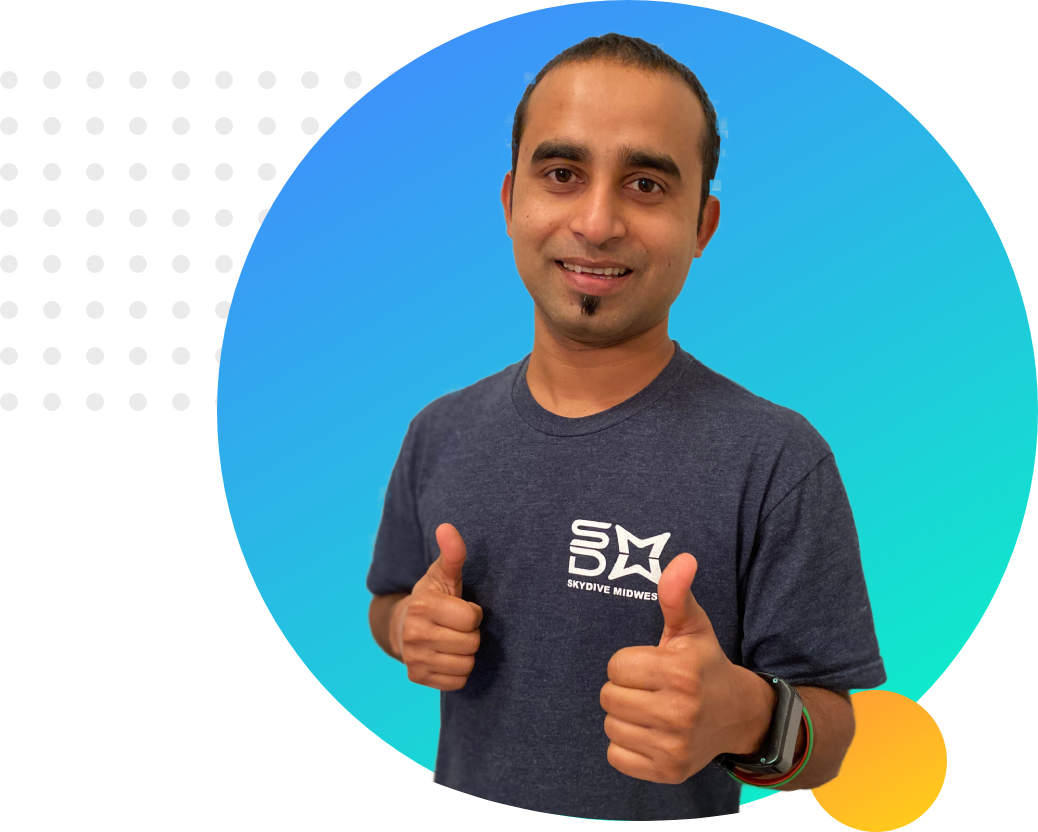
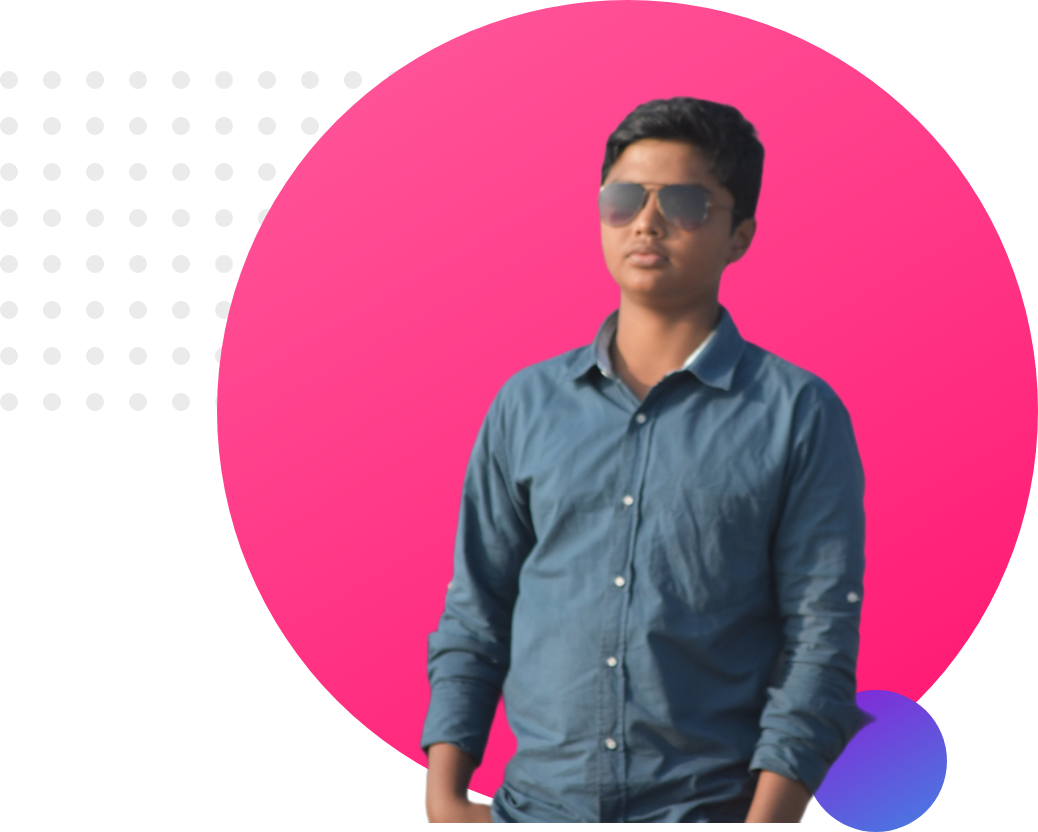
complete

diff --git a/index.html b/index.html
@@ -1,5 +1,6 @@
 <!DOCTYPE html>
 <html lang="en">
+
 <head>
     <meta charset="UTF-8">
     <meta http-equiv="X-UA-Compatible" content="IE=edge">
@@ -9,8 +10,39 @@
     <link rel="preconnect" href="https://fonts.gstatic.com">
     <link href="https://fonts.googleapis.com/css2?family=Poppins&display=swap" rel="stylesheet">
 </head>
+
 <body>
-    <h1>Welcome to</h1>
-    <h1> <span class="name">Abdullah Al Sizan </span> World</h1>
+    <section class="top">
+        <div class="half-width">
+            <h1>Welcome to</h1>
+            <h1> <span class="name">Abdullah Al Sizan </span> World</h1>
+            <h3>Build Climber and Train Stopper</h3>
+            <p>You might saw me jumping, climbing buildings, and stopping trains. But nobody pays me a dime for that
+                work.
+                That's why I am learning and mastering web development. I will not stop until I become the Web
+                Development Hero.
+            </p>
+            <a class="button" target="_blank" href="https://www.facebook.com/abdullal.sizan">HIRE ME</a>
+        </div>
+        <div class="half-width">
+            <img src="images/profile1.png" alt="">
+        </div>
+    </section>
+    <section class="middle">
+        <div class="half-width">
+            <img src="images/profile2.png" alt="">
+        </div>
+        <div class="half-width">
+            <h1>Dream Big</h1>
+            <h3>Become a web developer</h3>
+            <p>I already learned the basic HTML and CSS. I can build any simple website. I can even teach my grandma how
+                to make simple website. My goal is to build 3 websites and learn advanced topics.
+            </p>
+            <a class="button" target="_blank" href="https://www.facebook.com/abdullal.sizan">Resume</a>    
+        </div>
+
+            
+    </section>
 </body>
+
 </html>

diff --git a/style.css b/style.css
@@ -1,5 +1,6 @@
 body{
     font-family: 'Poppins', sans-serif;
+    margin: 0px;
 }
 h1{
     font-size: 50px;
@@ -8,3 +9,37 @@ h1{
 .name{
     color: orange;
 }
+img{
+    width: 100%;
+}
+
+.half-width{
+    width: 40%;
+    float: left;
+    margin-left: 10%;
+
+}
+
+.top{
+    background-image: url("images/top-banner.png");
+    background-repeat: no-repeat;
+}
+
+section{
+    height: 600px;  
+}
+
+.button{
+    text-decoration: none;
+    background-image: linear-gradient(45deg,orange, tomato);
+    padding: 8px 30px;
+    border-radius: 4%;
+    color: white;
+    font-size: 120%
+}
+
+.side-img{
+    width: 100px;
+
+}
+
